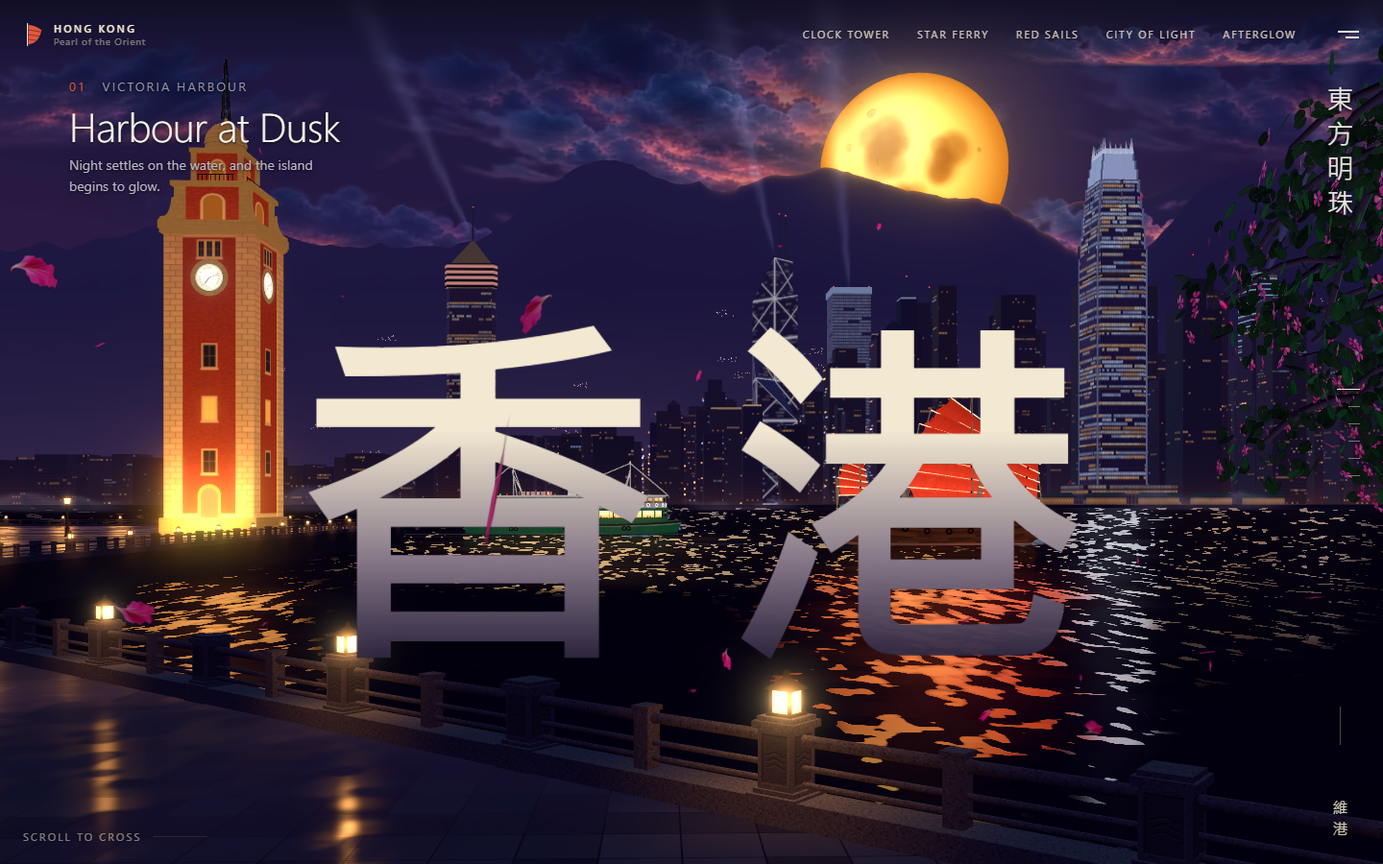
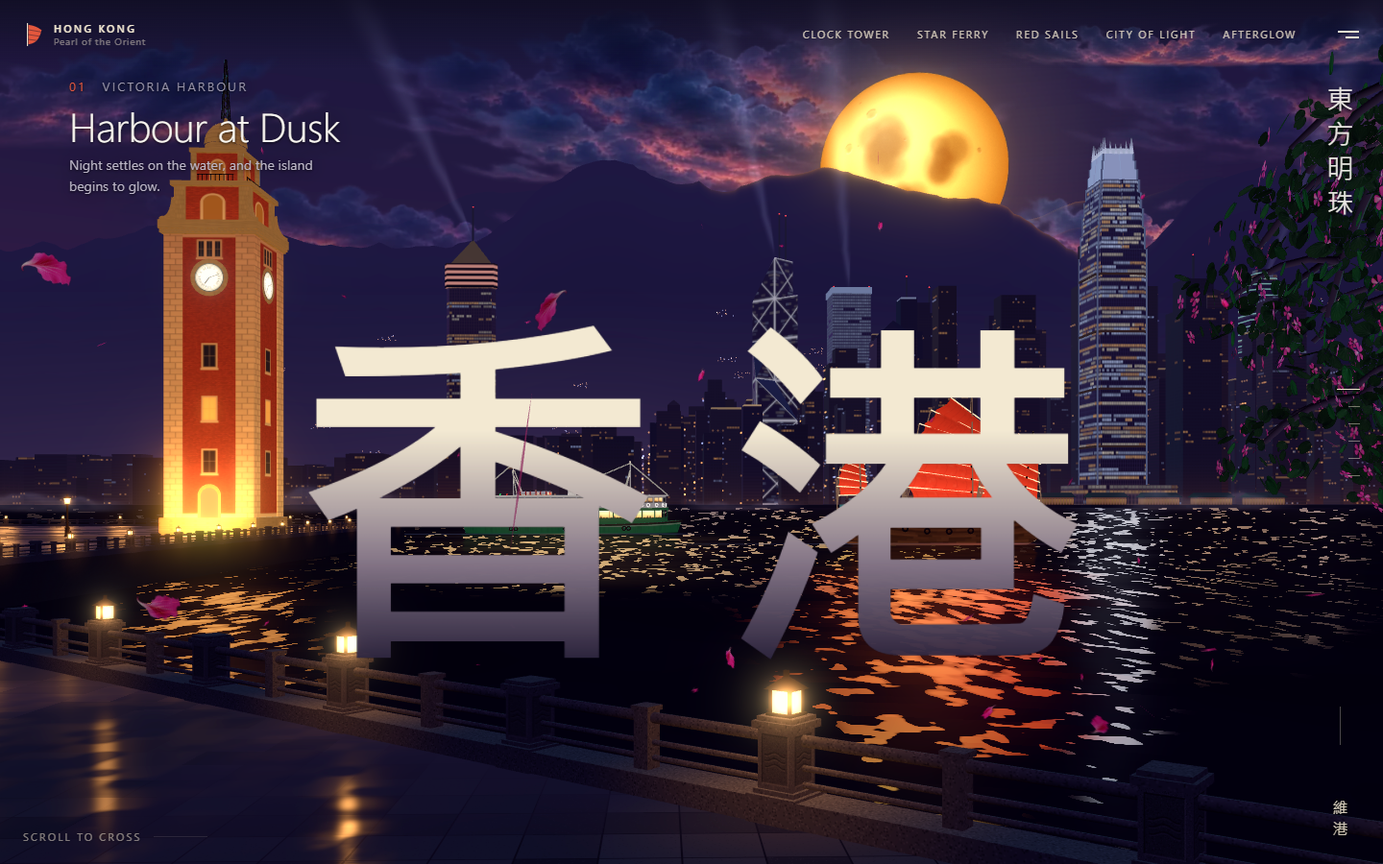
Remove the bow spray: too forceful for boats at harbour speed
The spray artwork is a breaking wave with flying droplets, so no size or strength reads as realistic; a code-built bow foam was declined. The wakes stay the boats' only white water. Review screenshots retaken; plan, checks and asset ledger updated.

diff --git a/src/data/atmosphere.js b/src/data/atmosphere.js
@@ -112,31 +112,6 @@ export const CLOUDS = {
   },
 };
 
-// Bow spray (ATMOSPHERE-EFFECTS-BRIEF.md 6.4; user choice, 2026-10-03): one
-// card of the generated spray artwork (docs/ASSET-LEDGER.md) at each boat's
-// bow, on the hull's side toward the camera, adding contact and speed to the
-// wakes. `bow`: metres forward of the boat's centre; `toward`: metres out
-// from the keel line toward the camera; `pull`: metres its depth is brought
-// nearer, to clear the hull's near side; `width` in metres (height follows
-// the art); `sink`: share of the card below the waterline (the art's empty
-// margin under the foam); `opacity`: calm
-// (at a hold) and under way (the boat moving at `fullSpeed` m/s or more).
-// `tint` dims the daylight-white art for the night; `pulse`: the swell's
-// size change, kept under 6% and built from two unrelated waves.
-export const SPRAY = {
-  url: 'atmosphere/harbour-spray.webp',
-  size: [1280, 428],
-  tint: [0.68, 0.74, 0.84], // under the glow threshold
-  sink: 0.12,
-  fullSpeed: 8,
-  pulse: { size: [0.035, 0.02], period: [4.3, 2.9] },
-  ferry: { bow: 9, toward: 5.5, pull: 14, width: 24, opacity: [0.62, 0.9] },
-  // The junk sails slowly: only a small bow wave at the stem, from the low
-  // right-hand part of the art (user choice, 2026-10-03; the full card along
-  // the hull read as a wave crashing into its side in desktop 04).
-  junk: { bow: 12.5, toward: 1.4, pull: 6, width: 5.5, crop: [0.55, 1], opacity: [0.45, 0.65] },
-};
-
 // Searchlights over Central (ATMOSPHERE-EFFECTS-BRIEF.md 6.5; user choice,
 // 2026-10-03): soft tapered beams from the landmark rooftops, not IFC's, so
 // IFC keeps the lead. `base`: the lamp, world metres; `lean`: the sweep's

diff --git a/src/scene/createVessels.js b/src/scene/createVessels.js
@@ -17,15 +17,12 @@ import {
   MeshStandardMaterial,
   PointLight,
   Shape,
-  SRGBColorSpace,
   ShapeGeometry,
   SphereGeometry,
-  TextureLoader,
   TorusGeometry,
   Vector2,
   Vector3,
 } from 'three';
-import { SPRAY } from '../data/atmosphere.js';
 import { lambert } from './palette.js';
 import { strut } from './strut.js';
 import {
@@ -37,7 +34,6 @@ import {
   junkCloth,
   junkHull,
 } from './surfaces.js';
-import { createSpray } from './spray.js';
 import { createWake } from './wakes.js';
 
 // Both vessels are built with their bow pointing along local +X.
@@ -773,21 +769,13 @@ function headingFrom(vector) {
   return Math.atan2(-vector.z, vector.x);
 }
 
-export function createVessels({ onLoad } = {}) {
+export function createVessels() {
   const group = new Group();
   const ferry = createFerry();
   const junk = createJunk();
   ferry.rotation.order = 'YXZ';
   junk.rotation.order = 'YXZ';
   group.add(ferry, junk);
-
-  const sprayArt = new TextureLoader().load(`${import.meta.env.BASE_URL}${SPRAY.url}`, () => onLoad?.());
-  sprayArt.colorSpace = SRGBColorSpace;
-  for (const [boat, key] of [[ferry, 'ferry'], [junk, 'junk']]) {
-    const spray = createSpray(sprayArt, SPRAY[key]);
-    boat.add(spray.mesh);
-    boat.userData.spray = spray;
-  }
 
   const vessels = [
     { key: 'ferry', object: ferry, curve: null, phase: 0, heading: 0 },
@@ -834,7 +822,6 @@ export function createVessels({ onLoad } = {}) {
         object.rotation.z = 0;
       }
       object.userData.wake.update(object, time, animate);
-      object.userData.spray.update(object, time, animate);
     }
   }
 

diff --git a/src/main.js b/src/main.js
@@ -53,9 +53,9 @@ const BLOOM_SCALE = params.has('bloom') ? Math.max(0, Number(params.get('bloom')
 // ?grade=0 turns the film grade off: for side-by-side checks.
 const GRADE = params.get('grade') !== '0';
 // Phone measurement switches, live like ?fps: ?dpr=1.25 caps the pixel ratio,
-// ?aa=0 turns off edge smoothing, ?off=water,clouds,mist,palms,petals,beams,spray hides layers.
+// ?aa=0 turns off edge smoothing, ?off=water,clouds,mist,palms,petals,beams hides layers.
 const DPR_CAP = Number(params.get('dpr')) || 0;
-const OFF_LAYERS = { water: ['water'], clouds: ['cloud'], mist: ['mist', 'sea-mist'], palms: ['palms'], petals: ['petals'], beams: ['searchlights'], spray: ['spray'] };
+const OFF_LAYERS = { water: ['water'], clouds: ['cloud'], mist: ['mist', 'sea-mist'], palms: ['palms'], petals: ['petals'], beams: ['searchlights'] };
 const OFF = (params.get('off') ?? '').split(',').flatMap((key) => OFF_LAYERS[key.trim()] ?? []);
 
 function start(initGuard, header) {
@@ -75,11 +75,7 @@ function start(initGuard, header) {
   scene.add(water.mesh);
   const kowloon = createKowloonEdge();
   const island = createIsland();
-  const vessels = createVessels({
-    onLoad: () => {
-      needsRender = true;
-    },
-  });
+  const vessels = createVessels();
   const foreground = createForeground();
   const wordmark = createWordmark(renderer, HERO.wordmark.text);
   const moon = createMoon();

diff --git a/docs/plan/checks.md b/docs/plan/checks.md
@@ -12,7 +12,7 @@ Measured with the `?fps` overlay on a production build, as in
 |---|---|---|
 | Average fps | ≥ 50 | ≥ 30 |
 | 1% low fps | ≥ 40 | ≥ 24 |
-| Draw calls | **≤ 220** (raised from ≤ 100 at the Milestone 2 review, user choice, 2026-10-03: the laptop holds 60 fps at 213, and the iPhone 11's switch test showed pixel count, not calls, as its cost; merging the ferry's and Clock Tower's meshes stays the fix if a phone falls short). Now: desktop 01 213, 02 166, 03 121, 04 95, 05 83, 06 65; mobile 01 149, 02 101, 03 117, 04 90, 05 73, 06 57. History: was ≤ 80, then ≤ 100, over budget in 01 and 02 (measured per hold, 2026-10-02): desktop 01 158, 02 136, 03 85, 04 58, 05 45, 06 40; mobile 01 108, 02 69. With the edge railings: desktop 01 164, 02 133, mobile 01 114, 02 75. With the 3D palms: desktop 02 137. With the bauhinia tree: desktop 01 170 (desktop only). The water reflections add none. The mountain rebuild adds 3 everywhere (third range, mist, slope lights): desktop 01 173, 02 140, 05 48; mobile 01 117. The landmarks and varied tops add 12 (four skyline-top sets, six landmark meshes, one mast mesh, one set of warning lights): desktop 01 185, 02 149, 03 100, 05 60; mobile 01 129. The far-tower window dots add 1: desktop 01 186, 02 150, 05 61; mobile 01 130. The firework show in 06 takes one call per live burst, one for its rockets and sparks and one per visible smoke wisp: at its busiest desktop 06 56, mobile 06 51 (desktop 05 70, mobile 05 61; 2026-10-02). The cloud ceiling (3–7 cloud cards per hold) gives desktop 01 207, 02 165, 03 120, 04 93, 05 79, 06 65; mobile 01 148 (one deck, 2026-10-03), 02 101, 03 116, 04 88, 05 71, 06 59 (2026-10-02; 58 with one cloud bank, 2026-10-03). The searchlights add one call per visible beam: desktop 01 211, 05 83; mobile 05 73 (2026-10-03). The bow spray adds one call per visible boat: desktop 01 213, 02 166, 03 121, 04 95; mobile 01 149, 03 117, 04 90 (2026-10-03). Earlier notes gave "85 peak (03)", which missed 01 and 02. Biggest shares in 01: ferry 40, Clock Tower 32, junk 25, IFC 15, wheel 12, stone railing 9 (with its fade twins), promenade lamps 3. The rebuilt vessels and tower are the place to merge meshes | ≤ 220 |
+| Draw calls | **≤ 220** (raised from ≤ 100 at the Milestone 2 review, user choice, 2026-10-03: the laptop holds 60 fps at 213, and the iPhone 11's switch test showed pixel count, not calls, as its cost; merging the ferry's and Clock Tower's meshes stays the fix if a phone falls short). Now (bow spray removed, 2026-10-03): desktop 01 211, 02 165, 03 120, 04 93, 05 83, 06 65; mobile 01 148, 02 101, 03 116, 04 88, 05 73, 06 57. History: was ≤ 80, then ≤ 100, over budget in 01 and 02 (measured per hold, 2026-10-02): desktop 01 158, 02 136, 03 85, 04 58, 05 45, 06 40; mobile 01 108, 02 69. With the edge railings: desktop 01 164, 02 133, mobile 01 114, 02 75. With the 3D palms: desktop 02 137. With the bauhinia tree: desktop 01 170 (desktop only). The water reflections add none. The mountain rebuild adds 3 everywhere (third range, mist, slope lights): desktop 01 173, 02 140, 05 48; mobile 01 117. The landmarks and varied tops add 12 (four skyline-top sets, six landmark meshes, one mast mesh, one set of warning lights): desktop 01 185, 02 149, 03 100, 05 60; mobile 01 129. The far-tower window dots add 1: desktop 01 186, 02 150, 05 61; mobile 01 130. The firework show in 06 takes one call per live burst, one for its rockets and sparks and one per visible smoke wisp: at its busiest desktop 06 56, mobile 06 51 (desktop 05 70, mobile 05 61; 2026-10-02). The cloud ceiling (3–7 cloud cards per hold) gives desktop 01 207, 02 165, 03 120, 04 93, 05 79, 06 65; mobile 01 148 (one deck, 2026-10-03), 02 101, 03 116, 04 88, 05 71, 06 59 (2026-10-02; 58 with one cloud bank, 2026-10-03). The searchlights add one call per visible beam: desktop 01 211, 05 83; mobile 05 73 (2026-10-03). The bow spray added one call per visible boat (desktop 01 213) until it was removed the same day (2026-10-03). Earlier notes gave "85 peak (03)", which missed 01 and 02. Biggest shares in 01: ferry 40, Clock Tower 32, junk 25, IFC 15, wheel 12, stone railing 9 (with its fade twins), promenade lamps 3. The rebuilt vessels and tower are the place to merge meshes | ≤ 220 |
 | New generated textures | **≤ 32 small code-drawn textures** (each ≤ 512 px on its short side, the Clock Tower shaft maps 848 px tall), about 6 MB of GPU memory, plus the wordmark and the shipped artwork (raised from ≤ 4 at the Milestone 2 review, user choice, 2026-10-03: they stand in for model files). Now 28 (about 5.5 MB). History: ≤ 4 more, each ≤ 512 px, plus the wordmark (about 1400 × 700 px, so it stays sharp); over budget since 2b (2026-10-01): 18 small code-drawn surface textures (the ferry reshape added four 512 × 64 deck textures and a foam strip; the junk rebuild swapped its two textures for two new ones and added two 512 × 64 deckhouse textures; the ferry rebuild swapped its four deck textures for four 512 × 56 upper-deck textures and added a 512 × 64 cabin texture). The Clock Tower rebuild swapped its three 256 × 1088 shaft maps for two 256 × 848 shaft maps, two 54 × 848 pilaster maps and two 128 × 96 crown maps: 21 textures, about 5.5 MB of GPU memory in all (was 6.6 MB). The wheel adds a 64 × 64 hub glow (22 textures; the IFC rebuild adds none). The stone railing adds a 64 × 64 granite tile and a 64 × 96 post panel (24 textures; the lantern glows are drawn in their shader). The wet paving adds a 240 × 240 slab tile (25 textures). The palms add a 256 × 256 frond and bark atlas (26 textures). The bauhinia tree adds a 512 × 512 leaf and flower atlas (27 textures; its falling petals reuse the petal texture). The water reflections add a 256 × 1 skyline strip (28 textures, 1 KB). The petal texture grew from a 128 × 128 code drawing to the 512 × 500 artwork (same count, about 1.4 MB of GPU memory with mipmaps; 2026-10-02). Budget raised rather than the shaft tiled at a lower resolution (user choice, 2026-10-03) | same |
 | Point lights | 3 (Clock Tower flood, ferry, junk sail light) since 2b; the promenade lanterns and lamps are faked in the materials (`lamps.js`). All three stay in the scene in every chapter (a hidden boat's light is at zero), so the count never changes mid-scroll (2026-10-02) | same |
 | JS bundle (gzip) | ≤ 230 KB (was ≤ 200 KB) | same |
@@ -40,8 +40,8 @@ second 31, so triangles were not the limit; the cost is per pixel.
 **Measurement switches** (live, like `?fps`, user choice 2026-10-02):
 `?dpr=1.25` caps the pixel ratio, `?aa=0` turns off edge smoothing,
 `?bloom=0` turns off the glow, `?grade=0` the film grade, and
-`?off=water,clouds,mist,palms,petals,beams,spray` hides any of those layers
-(`beams`: the searchlights; `spray`: the bow spray; 2026-10-03). The `?fps` box lists the switches in use.
+`?off=water,clouds,mist,palms,petals,beams` hides any of those layers
+(`beams`: the searchlights, 2026-10-03). The `?fps` box lists the switches in use.
 
 If the iPhone 11 misses its target, layers are switched off on mobile in this
 order: bloom (built in part 3e, step 5), particles, glow sprites, lit windows.

diff --git a/docs/plan/README.md b/docs/plan/README.md
@@ -21,7 +21,7 @@ file (user choice, 2026-10-02).
 | [`scene-models.md`](scene-models.md) | Halftone, lit windows, the code-built ferry, Clock Tower, IFC, wheel and junk, glow | 4.1–4.3 (step 2b) |
 | [`scene-promenade.md`](scene-promenade.md) | Petals, railing and lamps, wet paving, palms, bauhinia tree, water reflections | 4.4, 4.5 stops 1–5 |
 | [`scene-city.md`](scene-city.md) | Central towers, mountains, landmarks, window lights, painted facades, glow, film grade, wakes | 4.5 stop 6, parts 1–3f |
-| [`atmosphere.md`](atmosphere.md) | Clouds, shore mist, open-water wisps, searchlights, bow spray, fireworks in 06 | 4.5 stop 6, part 3g |
+| [`atmosphere.md`](atmosphere.md) | Clouds, shore mist, open-water wisps, searchlights, fireworks in 06 (no bow spray) | 4.5 stop 6, part 3g |
 | [`checks.md`](checks.md) | Performance budget and acceptance checks | 5, 8 |
 | [`CHANGELOG.md`](CHANGELOG.md) | Dated history of changes, newest first; the old files list | 7 |
 | [`HANDOFF.md`](HANDOFF.md) | Briefing for a fresh chat: how we work, standing rules, the next task | — |
@@ -74,7 +74,7 @@ The milestone has two halves:
   slope lights, painted landmark facades, wakes.
 - **Atmosphere:** a coral cloud ceiling in every chapter (dim back layer,
   lit front banks, drifting on the wind); searchlights sweeping over
-  Central in 01 and 05; white water at the ferry's and junk's bows;
+  Central in 01 and 05;
   separate shore mist drifts (none in desktop 01); open-water wisps in the
   hero and 01; a firework show in 06 (eight bursts on desktop, six on
   phones, in an 8 s loop with rockets, falling sparks and drifting smoke).
@@ -139,7 +139,7 @@ Stop for the user's review after each step, as in the grey-box.
 | Milestone | Content |
 |---|---|
 | 3. Assets | No GLB models: like Kage, every 3D object is built in code (user decision, 2026-10-01; section 4, step 2b). The ferry, junk, Clock Tower, IFC and wheel are already rebuilt from reference photos, with the user's Meshy models and photos as references only. Remaining cutouts including the user's bauhinia petals, display fonts (the bauhinia tree is built in code, 2026-10-02). Also the user's stone railing (built in code with lanterns and tall lamps, 2026-10-02), promenade palms, wet paving tiles (built in code, 2026-10-02) and more realistic skyline buildings (`ASSET-LEDGER.md`, "User reminders", 2026-10-01) |
-| 4. Atmosphere, all chapters | Follow `ATMOSPHERE-EFFECTS-BRIEF.md`: clouds and local mist, ferry spray, restrained searchlights, global print texture, chapter colour progression, and illustrated fireworks with smoke and embers. Local glows remain the baseline; a soft bloom is built (Milestone 2, part 3e, step 5; user choice, 2026-10-02). Coral clouds and the harbour mist are built (Milestone 2, part 3g; user request, 2026-10-02). |
+| 4. Atmosphere, all chapters | Follow `ATMOSPHERE-EFFECTS-BRIEF.md`: clouds and local mist, ferry spray (tried and dropped, user choice, 2026-10-03), restrained searchlights, global print texture, chapter colour progression, and illustrated fireworks with smoke and embers. Local glows remain the baseline; a soft bloom is built (Milestone 2, part 3e, step 5; user choice, 2026-10-02). Coral clouds and the harbour mist are built (Milestone 2, part 3g; user request, 2026-10-02). |
 | 5. Copy and launch | Follow `FINAL-NARRATIVE-COPY.md` for the proposed final chapter, interface, footer, fallback and metadata wording. Add final poster images (a real snapshot of the hero frame replaces the drawn fallback poster, for loading and fallback; user choice, 2026-10-02), an entrance screen with real build progress, after Kage's technique (3.12; user request, 2026-10-02), a full performance pass on both iPhones, deployment. |
 
 **Published early (user choice, 2026-10-02).** The work in progress is live at

diff --git a/docs/plan/atmosphere.md b/docs/plan/atmosphere.md
@@ -1,4 +1,4 @@
-# Sky, clouds, mist, searchlights, bow spray and fireworks
+# Sky, clouds, mist, searchlights and fireworks
 
 Part of the Milestone 2 plan (index: [README.md](README.md)). Old section 4, item 5, stop 6, part 3g; the fireworks in 06.
 
@@ -198,39 +198,14 @@ Part of the Milestone 2 plan (index: [README.md](README.md)). Old section 4, ite
     phone 05 73). No shaders built mid-scroll (04 → 05). JS 209.1 KB
     gzip. `?off=beams` hides them.
 
-- **Bow spray (user choice, 2026-10-03).** Following
-  `ATMOSPHERE-EFFECTS-BRIEF.md` §6.4: white water at the ferry's and the
-  junk's bows, adding contact and speed to the flat wakes (which stay).
-  New `src/scene/spray.js`; `SPRAY` in `src/data/atmosphere.js`; the
-  staged `harbour-spray.webp` ships unchanged as
-  `public/atmosphere/harbour-spray.webp` (1280 × 428, 182 KB).
-  - **Card:** one upright card of the artwork per boat, a child of the
-    boat so it rides the bob, turned about the vertical to face the
-    camera and set out on the hull's side toward it; its foam edge sits
-    on the waterline. Ferry: 24 m wide, centred 9 m forward of
-    midships, so it wraps the bow and the front of the hull. Junk: only
-    a small bow wave where the stem cuts the water, 5.5 m wide, cut
-    from the low right-hand part of the art (its cut edge feathered),
-    fainter; the hull, tyres and waterline stay clear (user choice,
-    2026-10-03: a 15 m card along the hull read as a wave crashing
-    into its side in desktop 04). On phones it is a speck at the stem.
-    Dimmed to a blue-grey for the
-    night (under the glow threshold) and fogged like the boats, so it
-    is only a hint in the wide 01 view.
-  - **Seen at an angle**, a flat card sank behind the hull's near side,
-    so only the spray ahead of the bow showed. Its depth alone is
-    pulled toward the camera (ferry 14 m, junk 10 m): it clears its own
-    hull but stays behind anything nearer, such as the railing and
-    palms in 02 or the other boat.
-  - **Strength:** calm at a hold (ferry 62%, junk 45%), up to 90% / 65%
-    while the boat moves (full at 8 m/s), easing between the two. A
-    slow swell in size of under 6%, built from two waves of unrelated
-    periods (4.3 s and 2.9 s), so no loop shows. Reduced motion: still,
-    at the calm strength. It fades with its boat's gate.
-  - **Checks:** desktop and phone 03 and 04, desktop 01 and 02. Draw
-    calls one per visible boat (desktop 01 213, 03 121, 04 95; phone 03
-    117, 04 90). No shaders built mid-scroll. JS 210.1 KB gzip.
-    `?off=spray` hides it.
+- **No bow spray (user choice, 2026-10-03).** The boats show white
+  water only through their flat wakes (`wakes.js`, see `scene-city.md`).
+  `ATMOSPHERE-EFFECTS-BRIEF.md` §6.4's spray card was built from the
+  staged `harbour-spray.webp` and removed the same day: the artwork is a
+  breaking wave throwing droplets, so even small and faint it read as
+  too forceful for boats at harbour speed, first on the junk in desktop
+  04, then on both (user request). A bow foam built in code was offered
+  instead and declined. See the changelog, 2026-10-03.
 
 - **Fireworks in 06 (user choice, 2026-10-02).** Pulled forward from
   Milestone 4, following `ATMOSPHERE-EFFECTS-BRIEF.md` §6.7 in three

diff --git a/docs/milestone-2-review/REVIEW.md b/docs/milestone-2-review/REVIEW.md
@@ -34,9 +34,11 @@ ring and parallax, footer, loading screen); every model rebuilt in code
 skyline); the promenade (stone railing, lanterns and lamps, wet paving,
 palms, bauhinia tree, petals); glittering water with hull reflections and
 wakes; three mountain ranges; a two-layer cloud ceiling drifting on the
-wind; shore mist and open-water wisps; searchlights over Central; bow
-spray; a firework show in 06; a soft glow on the brightest lights; and a
-film grade over the whole frame.
+wind; shore mist and open-water wisps; searchlights over Central; a
+firework show in 06; a soft glow on the brightest lights; and a film
+grade over the whole frame. A bow spray was tried and removed as too
+forceful (your choice, 2026-10-03); the screenshots were retaken without
+it.
 
 ## Acceptance checks
 
@@ -89,7 +91,7 @@ to the hero with focus on the site title.
 
 Stepped mode, no cursor ring, petals off; with the mouse moved, the frame
 does not change at all over 2 s (no parallax, no animation). The
-searchlights, fireworks and spray hold one pose.
+searchlights and fireworks hold one pose.
 
 ### 5. Fallback — pass
 
@@ -115,13 +117,13 @@ the top to the footer:
 | Worst 1 s | — | 60 |
 | Frames over 50 ms | none | **none** (longest 17.6 ms) |
 | Shaders built mid-scroll | 0 | **0** |
-| JS bundle (gzip) | ≤ 230 KB | **210.5 KB** |
+| JS bundle (gzip) | ≤ 230 KB | **209.4 KB** (210.5 KB when measured, before the spray was removed) |
 
 **iPhone 11, 2026-10-02 (you):** average fps 01 47, 02 32, 03 43, 04 33,
 05 34, 06 38, all over the 30 target. 1% low 01 41, 02 28, 03 34, 04 28,
 05 **18**, 06 30: 05 missed its 24 target (short dips). You then judged
 the frame rate fine. These readings predate the cloud ceiling,
-searchlights, bow spray and film grade; you chose not to re-measure for
+searchlights and film grade; you chose not to re-measure for
 now, expecting most visitors on an iPhone 16 (2026-10-03). The phone
 drops its pixel ratio from 1.5 to 1.25 by itself if it falls under 40
 fps. If 05's dips matter on the target phones, its searchlights and
@@ -131,7 +133,7 @@ clouds are the first layers to test with the `?off=` switches.
 
 | Budget | Was | Now | Site today |
 |---|---|---|---|
-| Draw calls | ≤ 100 | **≤ 220** | Desktop 01 213, 02 166, 03 121, 04 95, 05 83, 06 65; phone 01 149, 02 101, 03 117, 04 90, 05 73, 06 57 |
+| Draw calls | ≤ 100 | **≤ 220** | Desktop 01 211, 02 165, 03 120, 04 93, 05 83, 06 65; phone 01 148, 02 101, 03 116, 04 88, 05 73, 06 57 |
 | Generated textures | ≤ 4, each ≤ 512 px | **≤ 32 small code-drawn textures**, about 6 MB of GPU memory, plus the wordmark and artwork | 28 (about 5.5 MB) |
 
 Why: the laptop holds 60 fps at these counts, the iPhone 11's own switch

diff --git a/docs/ASSET-LEDGER.md b/docs/ASSET-LEDGER.md
@@ -147,7 +147,7 @@ in `ASSET-QA-REPORT.md`.
 | Staged filename | Type | Chapters | Current decision | Source / provenance |
 |---|---|---:|---|---|
 | `bauhinia-petal.webp` | Alpha WebP | Hero, 01–05 | **In use since 2026-10-02** as `public/atmosphere/bauhinia-petal.webp` (512 × 500, 29 KB, unchanged copy): every drifting petal and the bauhinia tree's falling petals, its own fuchsia dimmed for night (user choice) | Original AI-assisted artwork based on the user's Bauhinia reference photos; optimized locally; ours to ship |
-| `harbour-spray.webp` | Alpha WebP | 01–04 (wherever the boats show) | **In use since 2026-10-03** as `public/atmosphere/harbour-spray.webp` (1280 × 428, 182 KB, unchanged copy): one bow-spray card per boat, dimmed and fogged for night (user choice) | Original AI-assisted artwork; optimized locally; ours to ship |
+| `harbour-spray.webp` | Alpha WebP | 03–04 | **Not used** (user choice, 2026-10-03): shipped as a bow-spray card for a day and removed; a breaking wave with flying droplets reads too forceful for boats at harbour speed, even small and faint. Removed from `public/` | Original AI-assisted artwork; optimized locally |
 | `coral-clouds.webp` | Alpha WebP | Every chapter (cloud ceiling, user request 2026-10-02) | **In use since 2026-10-02** as `public/atmosphere/coral-clouds.webp` (1600 × 534, 251 KB, unchanged copy): sky cloud cards, Milestone 2 part 3g (user request); its bands are cropped, mirrored, tinted and scrolled in code for the two-layer ceiling (same file, no new art) | Original AI-assisted artwork (OpenAI image generation, user's direction); optimized locally; ours to ship |
 | `harbour-mist.webp` | Alpha WebP | 01–05 (faint in 06) | **In use since 2026-10-02** as `public/atmosphere/harbour-mist.webp` (1600 × 534, 225 KB, unchanged copy): the low mist belt off the island's waterfront and the open-water patches in the wide views, Milestone 2 part 3g (user request and choice) | Original AI-assisted artwork (OpenAI image generation, user's direction); optimized locally; ours to ship |
 | `firework-burst.webp` | Alpha WebP | 06 | **In use since 2026-10-02** as `public/atmosphere/firework-burst.webp` (768 × 692, 259 KB, unchanged copy; 9 KB over the brief's 250 KB aim, kept rather than compressed twice, user choice): the four still bursts in 06 | Original AI-assisted artwork; optimized locally; ours to ship |

diff --git a/docs/plan/HANDOFF.md b/docs/plan/HANDOFF.md
@@ -17,7 +17,7 @@ file, then [`README.md`](README.md) and
   `?hold=N` opens chapter N at its hold; `?debug` adds `window.__vh`
   (scene, camera, world, solver tools); `?fps` shows the frame-rate overlay.
   Phone measurement switches (live): `?dpr=1.25`, `?aa=0`, `?bloom=0`,
-  `?off=water,clouds,mist,palms,petals,beams,spray`, `?grade=0` (see
+  `?off=water,clouds,mist,palms,petals,beams`, `?grade=0` (see
   `checks.md`).
 
 ## How the user likes to work
@@ -56,7 +56,8 @@ done with mist"), lamps re-spaced, hero chapter numbers removed on desktop,
 stronger 04 cloud, the plan split into `docs/plan/`. Since then: the
 cloud ceiling (two layers in every chapter, wind drift; see
 `atmosphere.md`), user petal artwork, automatic phone sharpness. On
-2026-10-03: searchlights, bow spray (the junk's only a small bow wave),
+2026-10-03: searchlights, a bow spray (tried, then removed as too
+forceful; the user declined a code-built bow foam too),
 the film grade, and the Milestone 2 review. The user approved 01 and
 raised the budgets (draw calls ≤ 220, code-drawn textures ≤ 32), so
 Milestone 2 is closed. Carried forward: the phone re-measure (Milestone

diff --git a/docs/plan/CHANGELOG.md b/docs/plan/CHANGELOG.md
@@ -6,6 +6,14 @@ lives in the dated notes inside each area file, and in `git log`.
 
 ## 2026-10-03
 
+- **Bow spray removed** (user request and choice): the splash on the
+  ferry and junk still looked forceful and unrealistic. The artwork is a
+  breaking wave throwing droplets, so no size or strength fixes that; a
+  bow foam built in code was offered and declined. The wakes stay the
+  boats' only white water. Draw calls back to desktop 01 211, phone 01
+  148; JS 209.4 KB gzip; `?off=spray` gone. Files: `src/scene/spray.js`
+  and `public/atmosphere/harbour-spray.webp` (deleted),
+  `src/scene/createVessels.js`, `src/data/atmosphere.js`, `src/main.js`.
 - **Milestone 2 review** (build step 6, user request): 14 hold screenshots
   (hero and 01–06, desktop and phone), the composition probe, copy
   overflow at three sizes, parallax corners, navigation, reduced motion,

diff --git a/docs/plan/scene-city.md b/docs/plan/scene-city.md
@@ -403,5 +403,6 @@ Part of the Milestone 2 plan (index: [README.md](README.md)). Old section 4, ite
          calls unchanged (the wake replaces the foam skirt). In 01 both
          boats sit on their own dark reflections; in 03 and 04 the wakes
          trail behind the sterns. At wave height the flat wake reads thin;
-         the bow spray now covers it (see "Bow spray" in
+         a bow spray card was tried and removed as too forceful, so the
+         wake stays the only white water (see "No bow spray" in
          [atmosphere.md](atmosphere.md), user choice, 2026-10-03).
